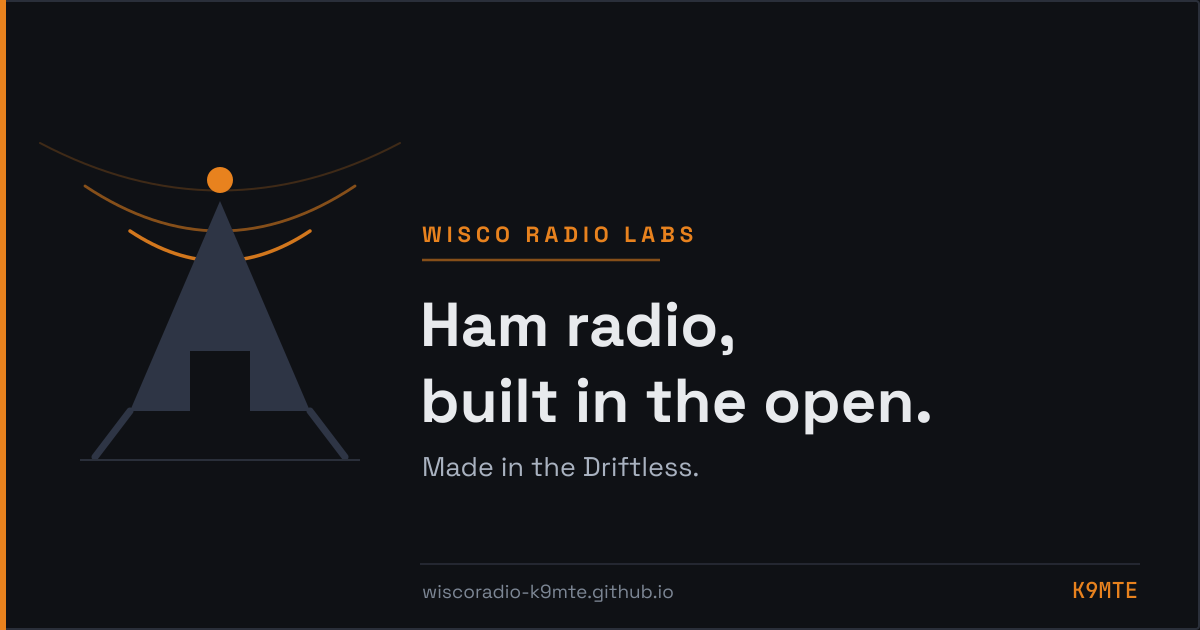
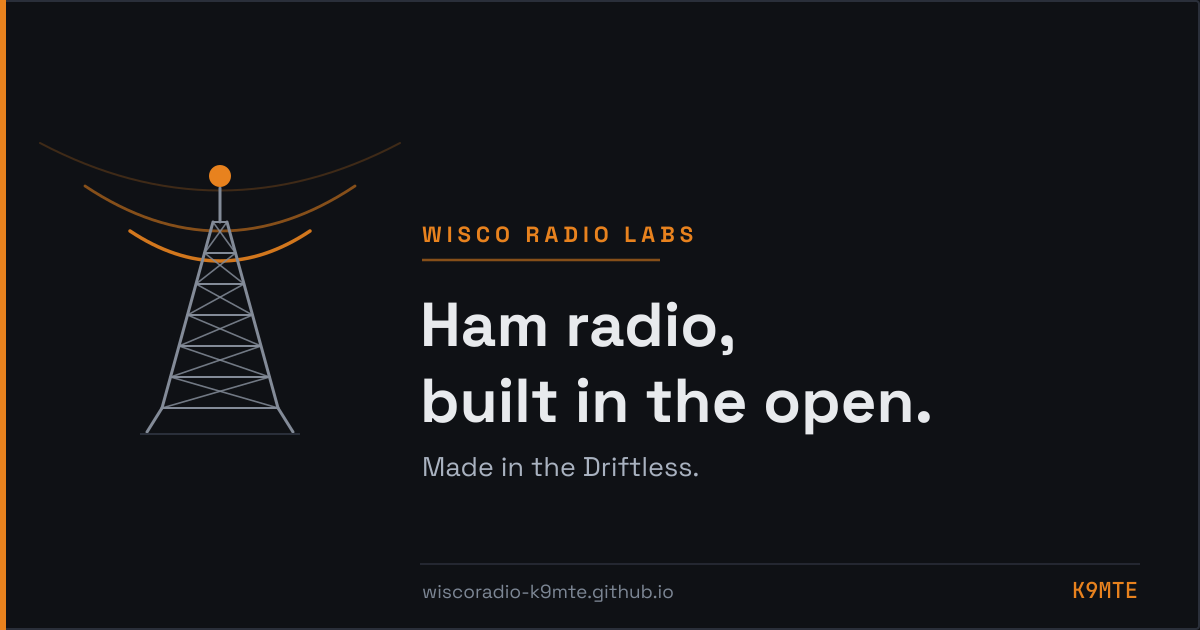
Optionals: fix lightbox (reparent out of inert #main) + lattice tower on OG card
- Lightbox: the dialog lived inside #main, which openLightbox() sets inert — inert is
  inherited, so it disabled itself (focus/clicks dead, mobile trap). Reparent to <body>
  at init. QA re-verified in real Chrome (hit-tested clicks): PASS.
- OG card: redraw the antenna as a parametric lattice/truss mast to match the brand logo
  (converging legs, rungs, X-bracing, beacon spike, splayed feet); remove dead TOWER_BODY.
  Travis approved.

Claude-Session: https://claude.ai/code/session_01WT6K24bx6zekAYpAhRP84U

Changed region(s): [[0.0925, 0.2714, 0.2775, 0.6937], [0.0617, 0.6937, 0.3083, 0.754]]

diff --git a/CLAUDE.md b/CLAUDE.md
@@ -89,6 +89,13 @@ gloss pass worked (reachable newcomers rose: Tariq 3→4, Hassan 2→3; expert h
   + add `public/CNAME` + **enable Enforce HTTPS in Pages** → flip `PREVIEW_NOINDEX=false` →
   (optional) wire cookieless analytics (Cloudflare Web Analytics rec; update the privacy page when
   added). That's the whole launch list now.
-- **Minor deferred:** remark-plugin/content-schema unit tests; blog code-block copy button;
-  screenshot lightbox; optional "activations/contacts" parallelism across surfaces.
+- **Optionals DONE (2026-06-29):** OG card now renders in the **brand fonts** (Space Grotesk +
+  JetBrains Mono via committed `scripts/fonts/` + runtime FONTCONFIG_FILE) AND a **lattice tower**
+  matching the logo (parametric truss in `generate-brand-assets.mjs`); **accessible screenshot
+  lightbox** on Products (dialog reparented to `<body>` so `#main` inert doesn't disable it —
+  Chrome-verified); **blog code-block copy button**; the Astro `markdown.remarkPlugins`
+  deprecation cleared (now `markdown.processor: unified()`). **28 tests** (added remark-rewrite-links
+  + content-schema, both biting). NOTE: `astro check` caches markdown render in `node_modules/.astro`
+  — clean that when changing the remark plugin locally. Open: optional "activations/contacts"
+  parallelism (cosmetic); Travis's on-device lightbox tap-check (nice-to-have).
 - Travis's real-phone read-quality check (his standing bar).